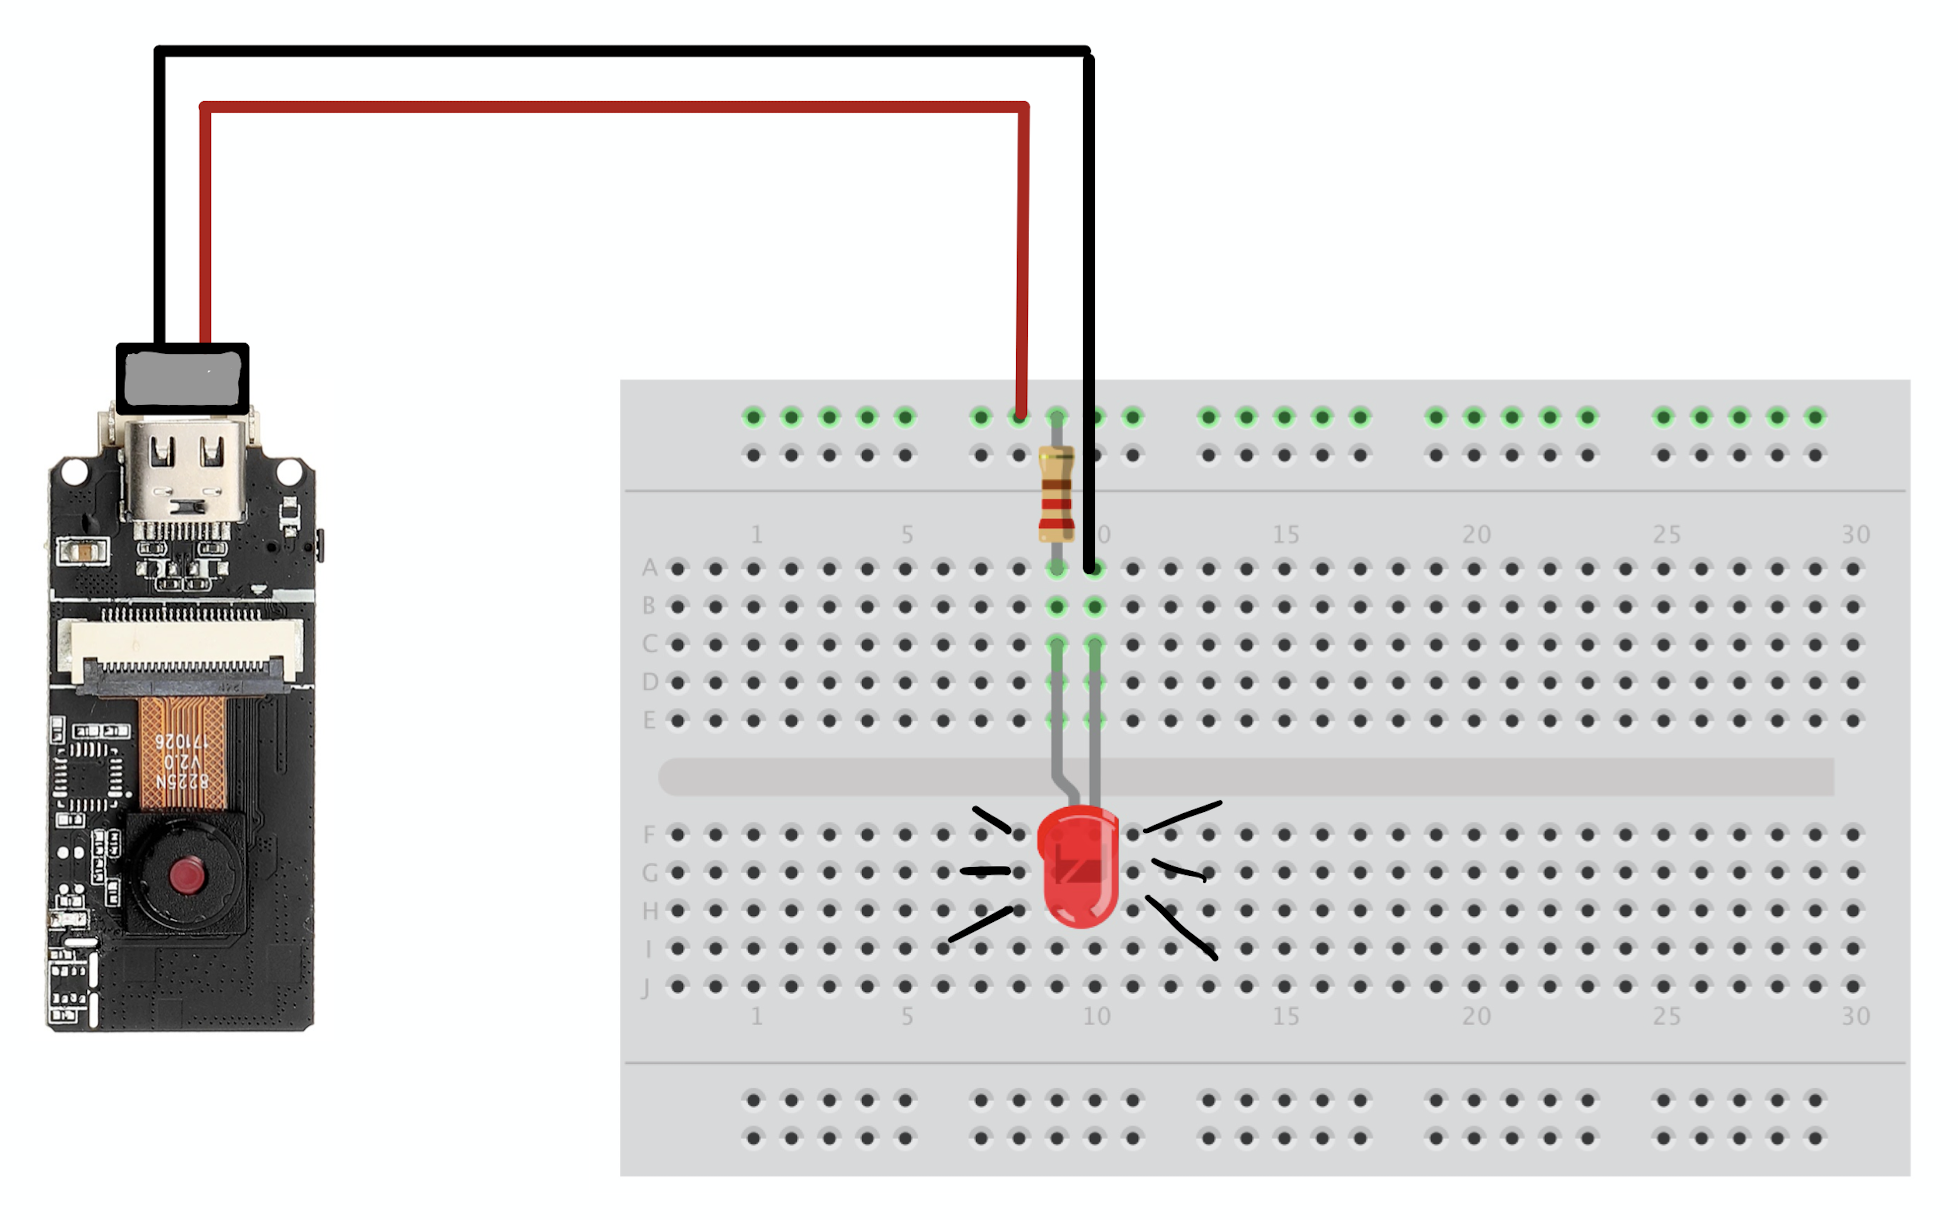
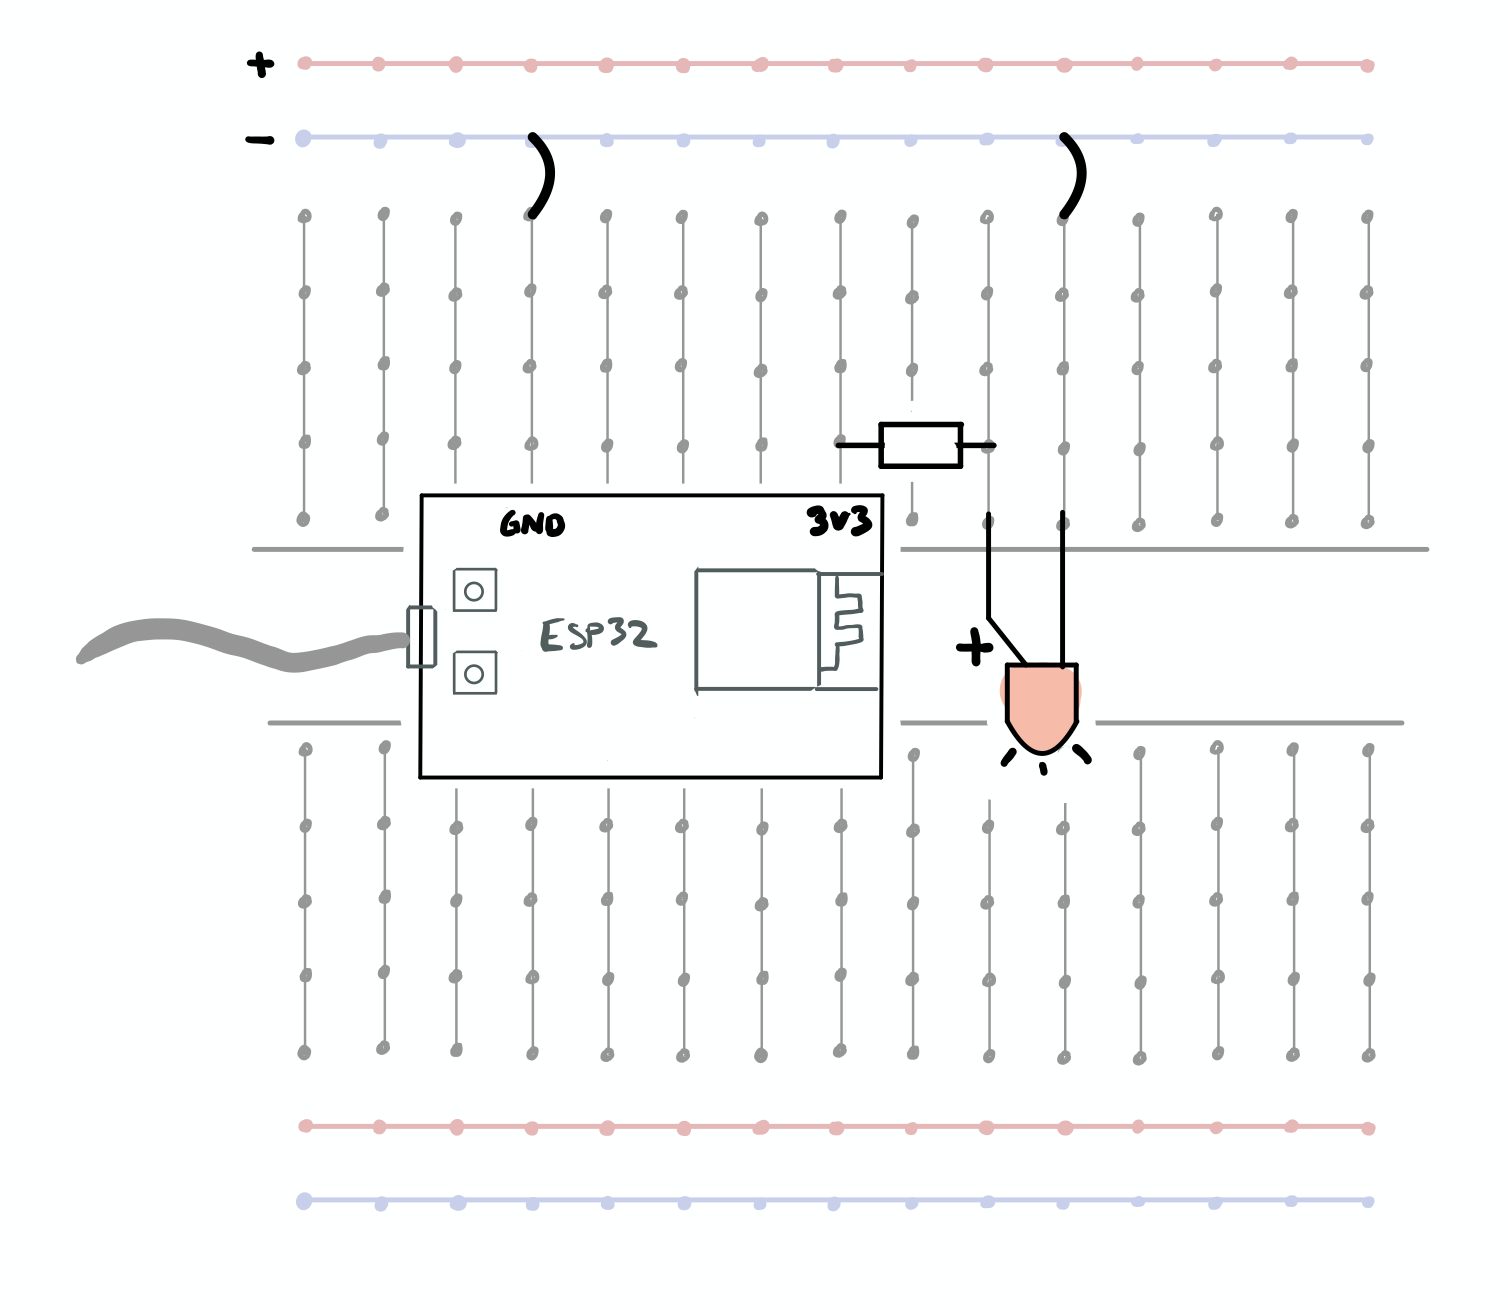
ny BB lampe lyser konstant

diff --git a/LampeOgKnapp/README.md b/LampeOgKnapp/README.md
@@ -19,9 +19,9 @@ Vi begynner først med en svært enkel krets:
 | LED           | 1    |  ![LED](../img/led.png) (farge kan variere)
 | Motstand 330 Ohm eller 220 ohm | 1 |  ![](../img/330ohm.png) 	
 | Breadboard (prototypebrett)	| 1 | ![](../img/bb.png)
-| ESP32-CAM | 1 | ![](../img/esp32cam_small.png)
+| ESP32 | 1 | ![](../img/esp32-devkit.jpeg)
 
-* ESP32-CAM fungerer som en statisk strømkilde og mer merket ```5V``` i diagrammet
+* ESP32 fungerer som en statisk strømkilde og mer merket ```5V``` i diagrammet
 * Strømmen går fra strømkilden gjennom motstanderen og så inn i LED-en (lampen)
 * Strømmen går fra LED-en tilbake til negativ side på strømforsyningen
 
